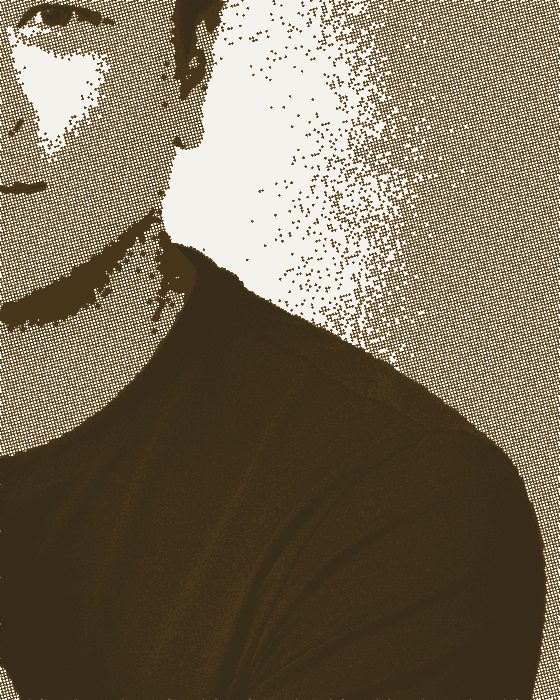
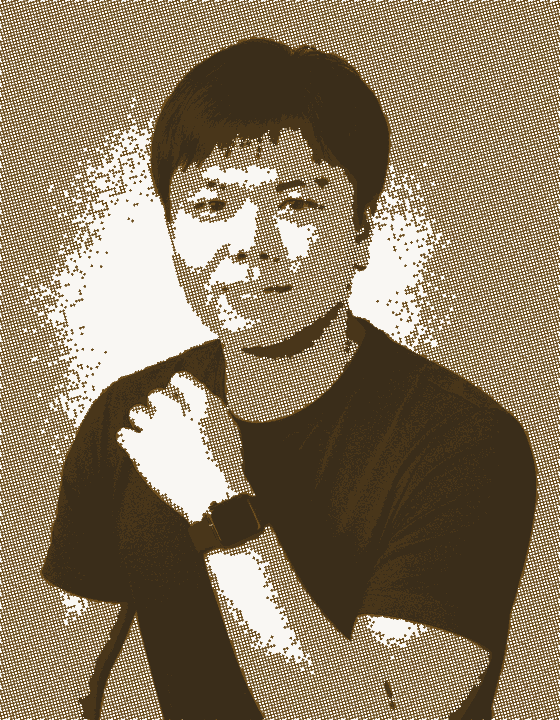
Plate the portraits at their native aspect, no forced crop.
Owner: the original framing was already right. Mira goes back to the
full 896x1152 composition (stone lion and all), Wilson and Sarah to
their native squares; the 4:5 crop is gone and so is any scaling. img
attributes now match each plate's real pixels (560x720, 560x560,
560x560). Same cell 3 screen as the face fix.

diff --git a/index.html b/index.html
@@ -902,15 +902,15 @@ tr[hidden]{display:none}
 
       <div class="advs">
         <figure class="plate">
-          <img src="assets/plates/pl-mira.png" alt="Mira Shi 肖像图版：户外石狮子旁着红衣，双色调网点" loading="lazy" width="560" height="700">
+          <img src="assets/plates/pl-mira.png" alt="Mira Shi 肖像图版：户外石狮子旁着红衣，双色调网点" loading="lazy" width="560" height="720">
           <figcaption><b>图版 四</b>Mira Shi · 创始人 &amp; 首席顾问</figcaption>
         </figure>
         <figure class="plate">
-          <img src="assets/plates/pl-wilson.png" alt="Dr. Wilson 肖像图版：桌前伏案工作，双色调网点" loading="lazy" width="560" height="700">
+          <img src="assets/plates/pl-wilson.png" alt="Dr. Wilson 肖像图版：桌前伏案工作，双色调网点" loading="lazy" width="560" height="560">
           <figcaption><b>图版 五</b>Dr. Wilson · 学术总监</figcaption>
         </figure>
         <figure class="plate">
-          <img src="assets/plates/pl-sarah.png" alt="Sarah Chen 肖像图版：戴眼镜着橙色外套，双色调网点" loading="lazy" width="560" height="700">
+          <img src="assets/plates/pl-sarah.png" alt="Sarah Chen 肖像图版：戴眼镜着橙色外套，双色调网点" loading="lazy" width="560" height="560">
           <figcaption><b>图版 六</b>Sarah Chen · 资深顾问</figcaption>
         </figure>
       </div>
